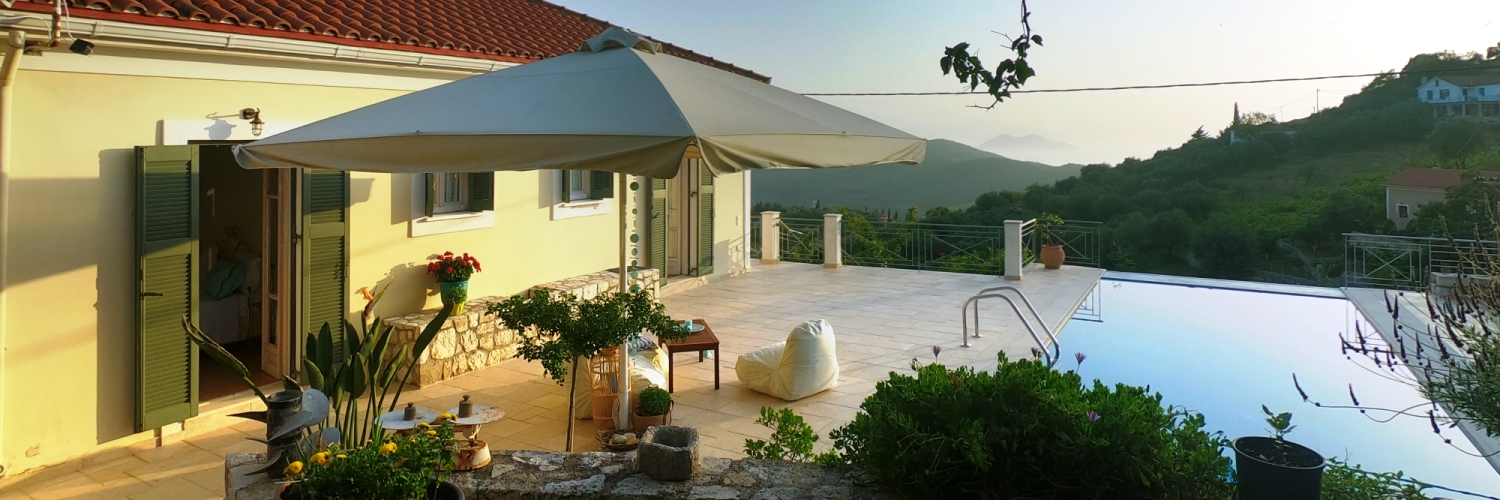
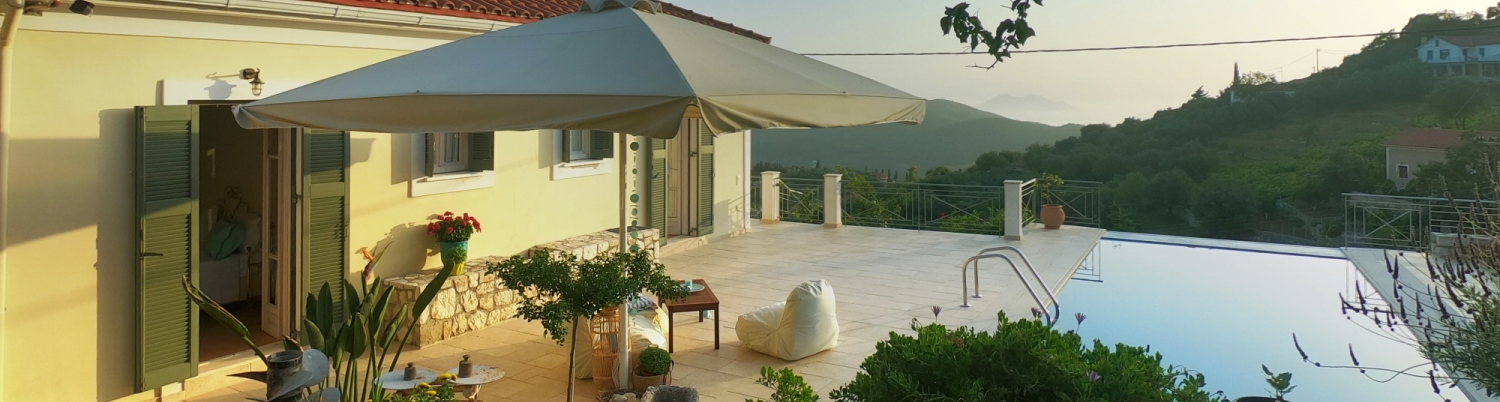
g

diff --git a/css/style.css b/css/style.css
@@ -24,7 +24,7 @@ h4 {
   font-family: Montserrat, sans-serif;
   background-image: url("../img/villa.jpg");
   background-attachment: fixed;
-  background-position: center;
+ 
   margin-bottom: 0px;
   height: 400px;
 }
